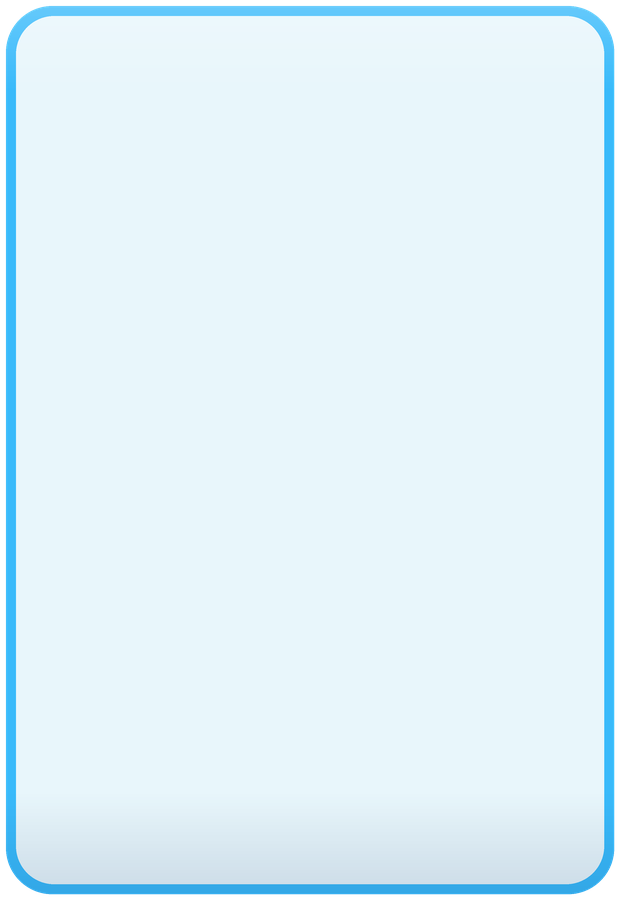
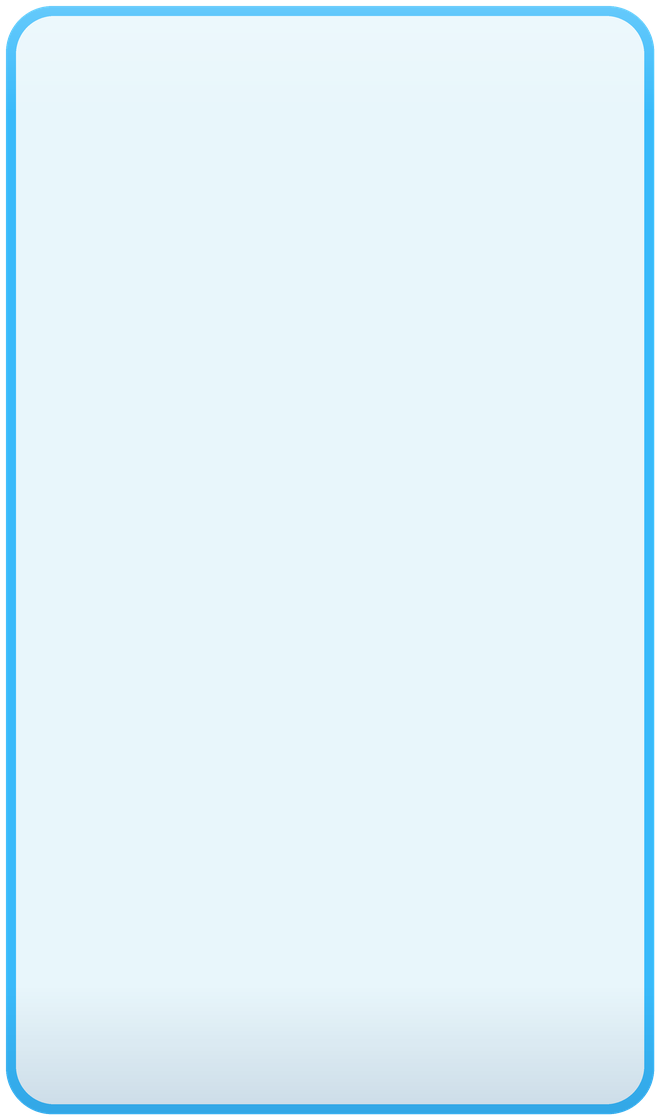
feat(settlement): re-skin the settlement page onto the V9.5 art
26 sprite references re-pointed across the SettlementPage subtree: the board, the
ribbon, the five stat rows, the leaderboard panel and its five rank rows, the
rank badges, the highlighted local row, the three stat cards, the reward bar and
both action capsules. Scene diff is 27 lines; no node added, moved or renamed, so
`updateStats`, `updateArenaStats`, the reward ledger, restart and return all keep
working.

The settlement already had the reference's structure -- card, ribbon, coins, stat
rows, leaderboard rows with badges, a highlighted player row, three stat cards, a
reward bar and exactly two actions -- so this is a re-skin rather than a rebuild.
The arena capture now matches the reference closely: headline result, rank badges
in gold/blue/purple, the local row highlighted in green, three stat cards, the
gold reward bar with its breakdown, and the yellow and purple capsules.

The board art was regenerated at the card node's own 660x1120. A 9-slice stretches
its middle but not its corners, so a 620x900 source made the rounded corners
elliptical.

Also generalises the re-skin tool to per-page maps (`--page=home|settlement`) and
gives the capture runner `--mode=endless|arena`, because settlement has two
compositions: Endless shows its own growth and reward, Arena shows the
leaderboard. Arena's pause button lives under `arenaHUD`, not `runtimeHUD`, which
is the Endless one and inactive there.
[…]

Changed region(s): [[0.0, 0.0, 1.0, 0.9956]]

diff --git a/art-source/tools/reskin_page_scene.py b/art-source/tools/reskin_page_scene.py
@@ -1,0 +1,172 @@
+"""Re-skin a page in Game.scene onto the V9.5 art, surgically.
+
+`cocos/assets/prefabs/ui/*.prefab` are **not** what runs: the scene's page nodes
+are plain nodes with `_prefab: null`, so those prefabs are dead weight and editing
+them changes nothing on screen. The running pages are authored in `Game.scene`,
+which is what this edits.
+
+Two things this is careful about:
+
+- **Scope is a page subtree, not node names.** `BtnStart` exists on Home,
+  EndlessReady and ArenaReady; `CoinPanel` on Home and the skin page; `StatRow_*`
+  and `ArenaRankRow_*` are shared between the endless and arena settlement
+  layouts. A name-based match silently re-skins other pages.
+- **The file is edited as text.** Reloading and re-dumping a 52k-line scene is
+  lossless but reorders every line, which makes the change unreviewable.
+
+Only sprite frame references and, where the new art is a 9-slice, the sprite type
+are touched. No node is added, moved, renamed or removed, so every controller
+binding keeps working.
+
+Run: python art-source/tools/reskin_page_scene.py --page=home [--apply]
+"""
+import argparse
+import json
+import pathlib
+import re
+import sys
+
+REPO = pathlib.Path(__file__).resolve().parents[2]
+SCENE = REPO / 'cocos' / 'assets' / 'scenes' / 'Game.scene'
+V95 = REPO / 'cocos' / 'assets' / 'game_art' / 'ui' / 'v95'
+
+# node name -> (v95 asset, sliced?)
+# SIMPLE where the art's aspect already matches the authored node; SLICED where
+# the source is a 9-slice frame, or its rounded ends or corners would stretch.
+RESKIN = {
+    'home': ('HomePage', {
+        'Background': ('field_home', False),
+        # The brand plate carries no text; the name is a Creator Label added under
+        # Logo by art-source/tools/add_logo_label.py.
+        'Logo': ('logo_brand_home', False),
+        'HeroBlackHole': ('home_hero_blackhole', False),
+        'BtnStart': ('capsule_yellow', True),
+        # Composed card art: the vignette inside its white frame with clear space
+        # below for the caption, at the card's own aspect so nothing is cropped.
+        'BtnMode': ('card_home_mode', False),
+        'BtnSkin': ('card_home_skin', False),
+        'BtnMachine': ('card_home_machine', False),
+        'CoinPanel': ('pill_dark', True),
+        'MachineStatus': ('pill_dark', True),
+    }),
+    'settlement': ('SettlementPage', {
+        'SettlementCard': ('board_settlement', True),
+        'SettlementRibbon': ('ribbon_settlement', False),
+        'StatRow_223': ('panel_white', True),
+        'StatRow_143': ('panel_white', True),
+        'StatRow_63': ('panel_white', True),
+        'StatRow_-17': ('panel_white', True),
+        'StatRow_-97': ('panel_white', True),
+        'ArenaLeaderboardPanel': ('panel_white', True),
+        'ArenaRankRow_1': ('panel_white', True),
+        'ArenaRankRow_2': ('panel_white', True),
+        'ArenaRankRow_3': ('panel_white', True),
+        'ArenaRankRow_4': ('panel_white', True),
+        'ArenaRankRow_5': ('panel_white', True),
+        # Rank badges take the reference's own colour ramp: gold, then blue, then
+        # purple for the rest.
+        'ArenaRankBadgePanel_1': ('badge_gold', True),
+        'ArenaRankBadgePanel_2': ('badge_blue', True),
+        'ArenaRankBadgePanel_3': ('badge_purple', True),
+        'ArenaRankBadgePanel_4': ('badge_purple', True),
+        'ArenaRankBadgePanel_5': ('badge_purple', True),
+        'ArenaPlayerRow': ('panel_local_row', True),
+        'ArenaPlayerBadgePanel': ('badge_blue', True),
+        'ArenaStatMassPanel': ('panel_white', True),
+        'ArenaStatKillsPanel': ('panel_white', True),
+        'ArenaStatTimePanel': ('panel_white', True),
+        'ArenaRewardPanel': ('reward_bar', True),
+        'BtnRestart': ('capsule_yellow', True),
+        'BtnHome': ('capsule_purple', True),
+    }),
+}
+
+SPRITE_RE = re.compile(r'\{\s*"__type__": "cc\.Sprite",.*?\n  \}', re.S)
+OWNER_RE = re.compile(r'"node": \{\s*"__id__": (\d+)\s*\}')
+
+
+def frame_uuid(asset):
+    meta = json.loads((V95 / f'{asset}.png.meta').read_text(encoding='utf-8'))
+    assert 'f9941' in meta['subMetas'], f'{asset} has no spriteFrame sub-asset'
+    return f"{meta['uuid']}@f9941"
+
+
+def subtree_ids(data, root_name):
+    nodes = {i: o for i, o in enumerate(data)
+             if isinstance(o, dict) and o.get('__type__') == 'cc.Node'}
+    root = next((i for i, o in nodes.items() if o.get('_name') == root_name), None)
+    if root is None:
+        raise SystemExit(f'Game.scene has no {root_name} node')
+
+    def children(index):
+        return [c['__id__'] for c in nodes[index].get('_children', []) if isinstance(c, dict)]
+
+    seen = set()
+    stack = [root]
+    while stack:
+        current = stack.pop()
+        if current in seen:
+            continue
+        seen.add(current)
+        stack.extend(children(current))
+    return seen, nodes
+
+
+def main():
+    parser = argparse.ArgumentParser()
+    parser.add_argument('--page', required=True, choices=sorted(RESKIN))
+    parser.add_argument('--apply', action='store_true')
+    args = parser.parse_args()
+
+    root_name, mapping = RESKIN[args.page]
+    text = SCENE.read_text(encoding='utf-8')
+    data = json.loads(text)
+    if not isinstance(data, list):
+        data = data.get('data', data)
+
+    subtree, nodes = subtree_ids(data, root_name)
+    print(f'{root_name} subtree: {len(subtree)} nodes')
+    by_name = {}
+    for index in subtree:
+        by_name.setdefault(nodes[index].get('_name'), []).append(index)
+
+    sprite_blocks = []
+    for match in SPRITE_RE.finditer(text):
+        owner = OWNER_RE.search(match.group(0))
+        if owner:
+            sprite_blocks.append((int(owner.group(1)), match.start(), match.end(), match.group(0)))
+
+    edits = []
+    for node_name, (asset, sliced) in mapping.items():
+        targets = set(by_name.get(node_name, []))
+        if not targets:
+            print(f'  SKIP {node_name}: not in the {root_name} subtree')
+            continue
+        uuid = frame_uuid(asset)
+        hit = 0
+        for owner, block_start, block_end, block in sprite_blocks:
+            if owner not in targets:
+                continue
+            new_block = re.sub(
+                r'"__uuid__": "[^"]+",(\s*)\n(\s*)"__expectedType__": "cc\.SpriteFrame"',
+                lambda m: f'"__uuid__": "{uuid}",{m.group(1)}\n{m.group(2)}"__expectedType__": "cc.SpriteFrame"',
+                block)
+            new_block = re.sub(r'"_type": \d+,', f'"_type": {1 if sliced else 0},', new_block, count=1)
+            if new_block != block:
+                edits.append((block_start, block_end, new_block))
+                hit += 1
+        print(f'  {node_name:26} -> {asset}{" (sliced)" if sliced else ""}   [{hit}]')
+
+    for block_start, block_end, new_block in sorted(edits, reverse=True):
+        text = text[:block_start] + new_block + text[block_end:]
+
+    print(f'\n{len(edits)} sprite reference(s) re-pointed')
+    if args.apply:
+        SCENE.write_text(text, encoding='utf-8')
+        print(f'wrote {SCENE.relative_to(REPO)}')
+    else:
+        print('dry run; pass --apply to write')
+
+
+if __name__ == '__main__':
+    sys.exit(main())

diff --git a/art-source/vector/generate_ui_art.py b/art-source/vector/generate_ui_art.py
@@ -196,7 +196,7 @@ def build_board_settlement():
     `ui-v5-final/design-lock.md` calls this board "cream"; the adopted render
     shows light blue with a white inner panel, and the image wins.
     """
-    width, height = 620, 900
+    width, height = 660, 1120
     image = canvas(width, height)
     draw = ImageDraw.Draw(image)
     rounded(draw, capsule_box(width, height, 6), 46 * SS, fill=rgba(BOARD_CYAN, 255))
@@ -292,7 +292,7 @@ def build_board_endless():
     every page onto one plate; the endless board drops the arena cyan for the
     field's own blue so it does not imply a ranking it does not have.
     """
-    width, height = 620, 900
+    width, height = 660, 1120
     image = canvas(width, height)
     draw = ImageDraw.Draw(image)
     rounded(draw, capsule_box(width, height, 6), 46 * SS, fill=rgba('#2f9fe0', 255))
